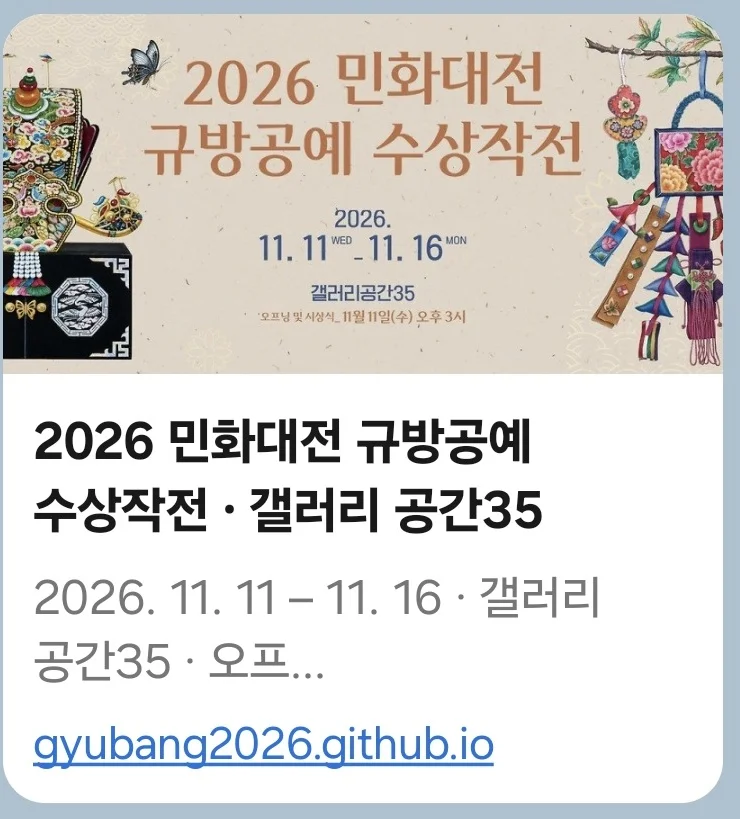
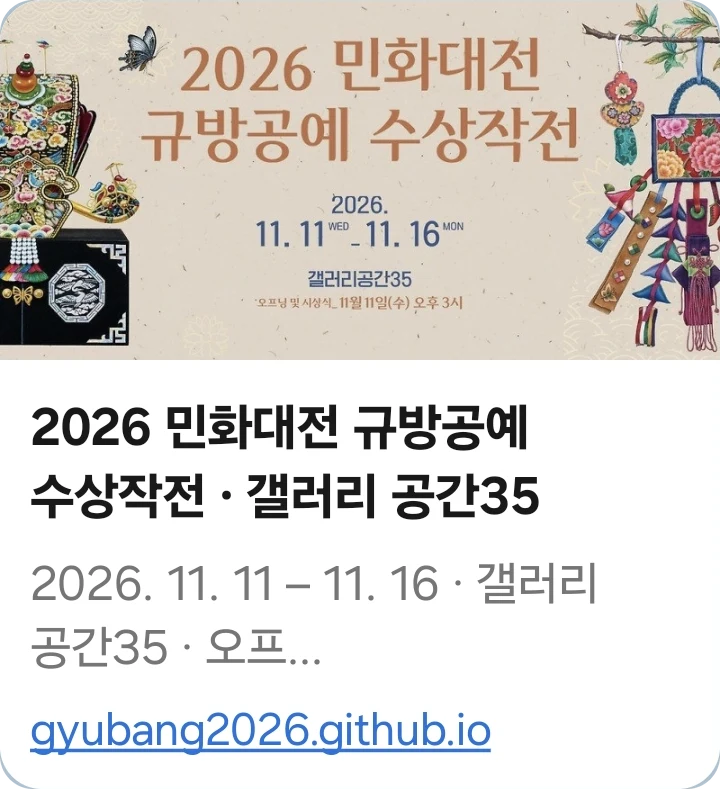
카톡 초대 카드 그림: 대화방 배경 없이 카드만
Claude-Session: https://claude.ai/code/session_01P5ZQgmcTkrRAYZUyWNYzCM

diff --git a/service.html b/service.html
@@ -72,7 +72,7 @@
           <p class="cond">※ 단체전은 작가 약력 대신 참여 작가 목록이 들어갑니다.</p></div>
       </div>
       <div class="item">
-        <div class="pic"><img src="img/kakao_card.webp" width="740" height="819" alt="카카오톡 대화방에 뜬 《2026 민화대전 규방공예 수상작전》 초대 카드" loading="lazy" decoding="async"></div>
+        <div class="pic"><img class="kc" src="img/kakao_card.webp" width="720" height="789" alt="카카오톡 대화방에 뜬 《2026 민화대전 규방공예 수상작전》 초대 카드" loading="lazy" decoding="async"></div>
         <div><p class="where">초대 문자</p><h3>카톡 초대 카드</h3>
           <p>전시 홈페이지 주소를 카카오톡으로 보내면 전시 그림과 이름, 기간이 카드로 뜹니다. 초대 문자에 주소만 붙여 보내시면 됩니다.</p></div>
       </div>

diff --git a/assets/site.css b/assets/site.css
@@ -210,6 +210,7 @@ dl.facts dd{margin:0}
 .pnote p{margin:0;max-width:44em}
 .tnote{margin:16px 0 0;font-family:var(--sans);font-size:14.5px;color:var(--mute);line-height:1.7;max-width:48em;text-wrap:pretty}
 .item .where{font-family:var(--sans);font-size:13px;font-weight:500;letter-spacing:.06em;color:var(--mute);margin:0 0 6px}
+.item .pic img.kc{border-radius:4.6%/4.2%}
 .item .cond{font-family:var(--sans);font-size:14px;color:var(--mute)}
 @media (max-width:860px){.tiers{grid-template-columns:1fr}.tier+.tier{border-left:0;border-top:1px solid var(--line)}.tier.k{margin:0}.promise{display:grid;gap:8px}}
 
